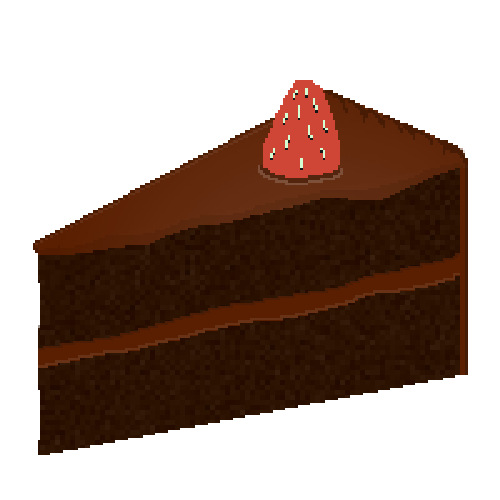
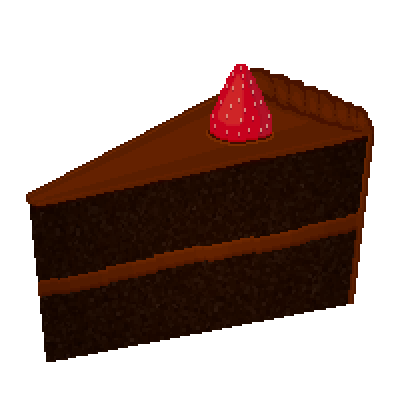
v10
--changed cake and fork cursor images
--changed tickrate for "cakes baked" to 100 milliseconds
--same 1 second tickrate for everything else
--makes the "cakes baked" count to look more real time
--the logic makes the "cakes baked" count to not be whole number anymore, stopped the fraction from being shown
--refactored "upgrades" to "buildings" because upgrades for the
buildings will be added later
--added images for each building
--added "All time cakes baked" count for each building

diff --git a/src/counter/Counter.js b/src/counter/Counter.js
@@ -6,28 +6,37 @@ import "./Counter.css";
 storage.count = storage.count || 0;
 storage.totalCount = storage.totalCount || 0;
 storage.cakePerSecond = storage.cakePerSecond || 0;
-storage.upgrades = storage.upgrades || {};
+storage.buildings = storage.buildings || {};
+
+const counter_tickrate = 100;
 
 class Counter extends Component {
-  updateCakeCounts() {
-    const cps = Object.values(storage.upgrades)
-      .map(upgrade => upgrade.cps * upgrade.count)
+  fast_updateCakeCounts() {
+    storage.count += (counter_tickrate / 1000) * storage.cakePerSecond;
+  }
+
+  slow_updateCakeCounts() {
+    const cps = Object.values(storage.buildings)
+      .map(building => building.cps * building.count)
       .reduce((a, b) => a + b, 0);
     storage.cakePerSecond = cps;
-    storage.count += storage.cakePerSecond;
     storage.totalCount += storage.cakePerSecond;
+    Object.values(storage.buildings).map((building, index, buildings) => {
+      buildings[index].alltime += building.cps * building.count;
+    });
   }
 
   componentDidMount() {
-    setInterval(this.updateCakeCounts, 1000);
+    setInterval(this.fast_updateCakeCounts, counter_tickrate);
+    setInterval(this.slow_updateCakeCounts, 1000);
   }
 
   render() {
     return (
       <div className="Counter">
-        <div>Cakes baked: {storage.count}</div>
-        <div>Cakes baked (all time): {storage.totalCount}</div>
-        <div>Cakes per second (CPS): {storage.cakePerSecond}</div>
+        <div>Cakes baked: {storage.count.toFixed(0)}</div>
+        <div>Cakes baked (all time): {storage.totalCount.toFixed(0)}</div>
+        <div>Cakes per second (CPS): {storage.cakePerSecond.toFixed(0)}</div>
       </div>
     );
   }

diff --git a/src/buildings/Building.js b/src/buildings/Building.js
@@ -1,0 +1,63 @@
+import React, { Component } from "react";
+import { view } from "react-easy-state";
+import { storage } from "react-easy-params";
+import "./Building.css";
+
+storage.buildings = storage.buildings || {};
+
+class Building extends Component {
+  constructor(props) {
+    super(props);
+
+    this.onClick = this.onClick.bind(this);
+  }
+
+  onClick() {
+    const { name, cps, baseCost, alltime } = this.props;
+    const building = storage.buildings[name] || {
+      cost: baseCost,
+      cps: cps,
+      count: 0,
+      alltime: 0
+    };
+
+    if (storage.count >= building.cost) {
+      storage.count -= building.cost;
+      building.count++;
+      building.cost = Math.floor(baseCost * Math.pow(1.15, building.count));
+    }
+    storage.buildings[name] = building;
+  }
+
+  render() {
+    const { name, cps, baseCost, image } = this.props;
+    const building = storage.buildings[name] || {
+      cost: baseCost,
+      cps: cps,
+      count: 0,
+      alltime: 0
+    };
+
+    return (
+      <div className="Building">
+        <button onClick={this.onClick} className="Building-button">
+          <div className="Building-image">
+            <img src={image} />
+          </div>
+          <div className="Building-name">
+            <h2>Buy a {name}</h2>
+          </div>
+        </button>
+        <div className="Building-stats">
+          <div>Cost: {building.cost}</div>
+          <div>CPS: {cps}</div>
+          <div>Total: {building.count}</div>
+          <div>Total CPS: {building.count * cps}</div>
+          <div>All time cakes: {building.alltime}</div>
+        </div>
+      </div>
+    );
+  }
+}
+
+export default view(Building);

diff --git a/src/buildings/BuildingList.js b/src/buildings/BuildingList.js
@@ -1,0 +1,41 @@
+import React, { Component } from "react";
+import { storage } from "react-easy-params";
+import Building from "./Building";
+import "./BuildingList.css";
+
+import forkImage from "./img/fork.png";
+import frostingImage from "./img/frosting.png";
+import sprinklesImage from "./img/sprinkles.png";
+
+const buildings = [
+  { name: "Fork", baseCost: 10, cps: 1, image: forkImage, alltime: 0 },
+  { name: "Frosting", baseCost: 20, cps: 2, image: frostingImage, alltime: 0 },
+  { name: "Sprinkles", baseCost: 40, cps: 4, image: sprinklesImage, alltime: 0 }
+];
+
+class BuildingList extends Component {
+  componentDidMount() {
+    // remove any unconfigured buildings from localstorage
+    storage.buildings = storage.buildings || {};
+    const currentBuildingNames = buildings.map(Building => Building.name);
+    Object.keys(storage.buildings).forEach(key => {
+      if (!currentBuildingNames.includes(key)) delete storage.buildings[key];
+    });
+  }
+
+  render() {
+    const buildingComponents = buildings.map(building => (
+      <Building
+        key={building.name}
+        name={building.name}
+        baseCost={building.baseCost}
+        cps={building.cps}
+        image={building.image}
+        alltime={building.alltime}
+      />
+    ));
+    return <div className="BuildingList">{buildingComponents}</div>;
+  }
+}
+
+export default BuildingList;

diff --git a/src/App.js b/src/App.js
@@ -1,5 +1,5 @@
 import React, { Component } from "react";
-import UpgradeList from "./upgrades/UpgradeList";
+import BuildingList from "./buildings/BuildingList";
 import Counter from "./counter/Counter";
 import Cake from "./cake/Cake";
 import "./App.css";
@@ -13,9 +13,9 @@ class App extends Component {
         </div>
         <div className="App-body">
           <Cake />
-          <UpgradeList />
+          <BuildingList />
         </div>
-        <div className="App-footer">V9. Code by Ryan. Art by RJ.</div>
+        <div className="App-footer">V10. Code by Ryan. Art by RJ.</div>
       </div>
     );
   }

diff --git a/src/buildings/Building.css b/src/buildings/Building.css
@@ -1,0 +1,29 @@
+.Building {
+  display: flex;
+  flex-direction: row;
+  margin: 10px;
+}
+
+.Building-button {
+  width: 300px;
+  flex-direction: row;
+}
+
+.Building-image {
+  display: flex;
+  float: left;
+  height: "100px";
+  width: "100px";
+}
+
+.Building-name {
+  display: flex;
+  margin: 10px;
+  vertical-align: middle;
+}
+
+.Building-stats {
+  display: flex;
+  flex-direction: column;
+  margin: 10px;
+}

diff --git a/src/buildings/BuildingList.css b/src/buildings/BuildingList.css
@@ -1,4 +1,4 @@
-.UpgradeList {
+.BuildingList {
   flex: 1;
   display: flex;
   flex-direction: column;
